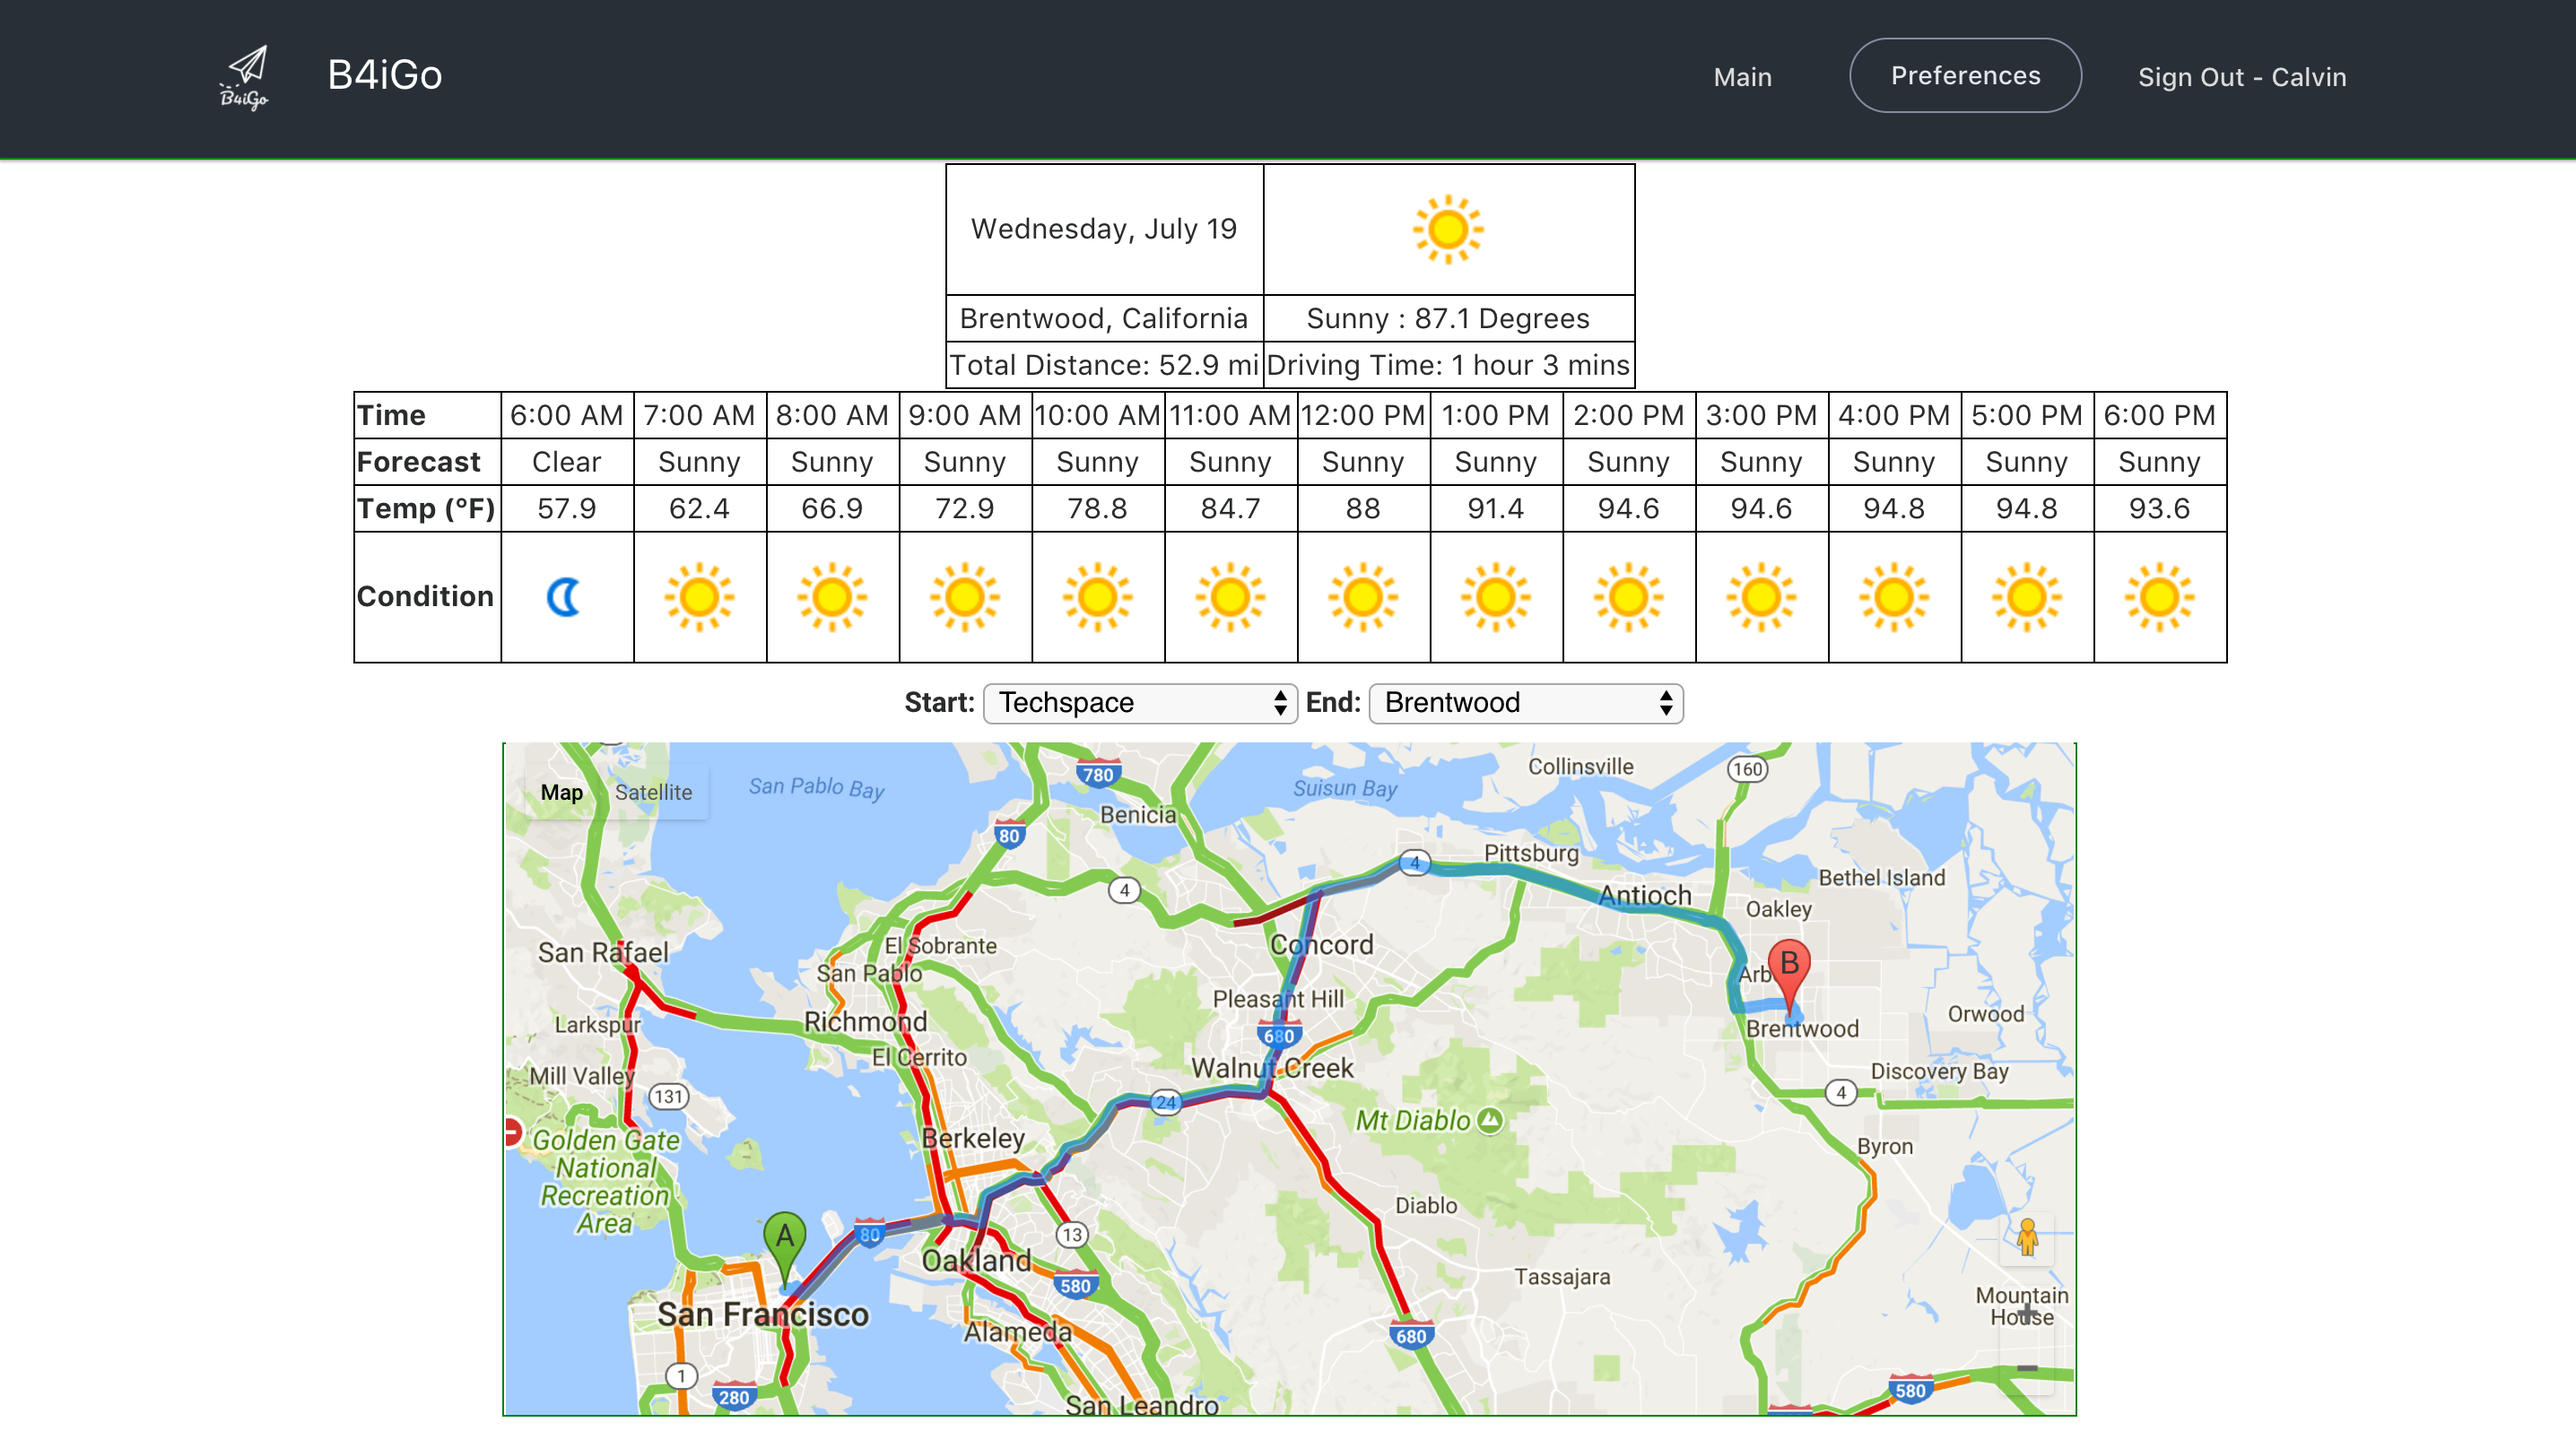
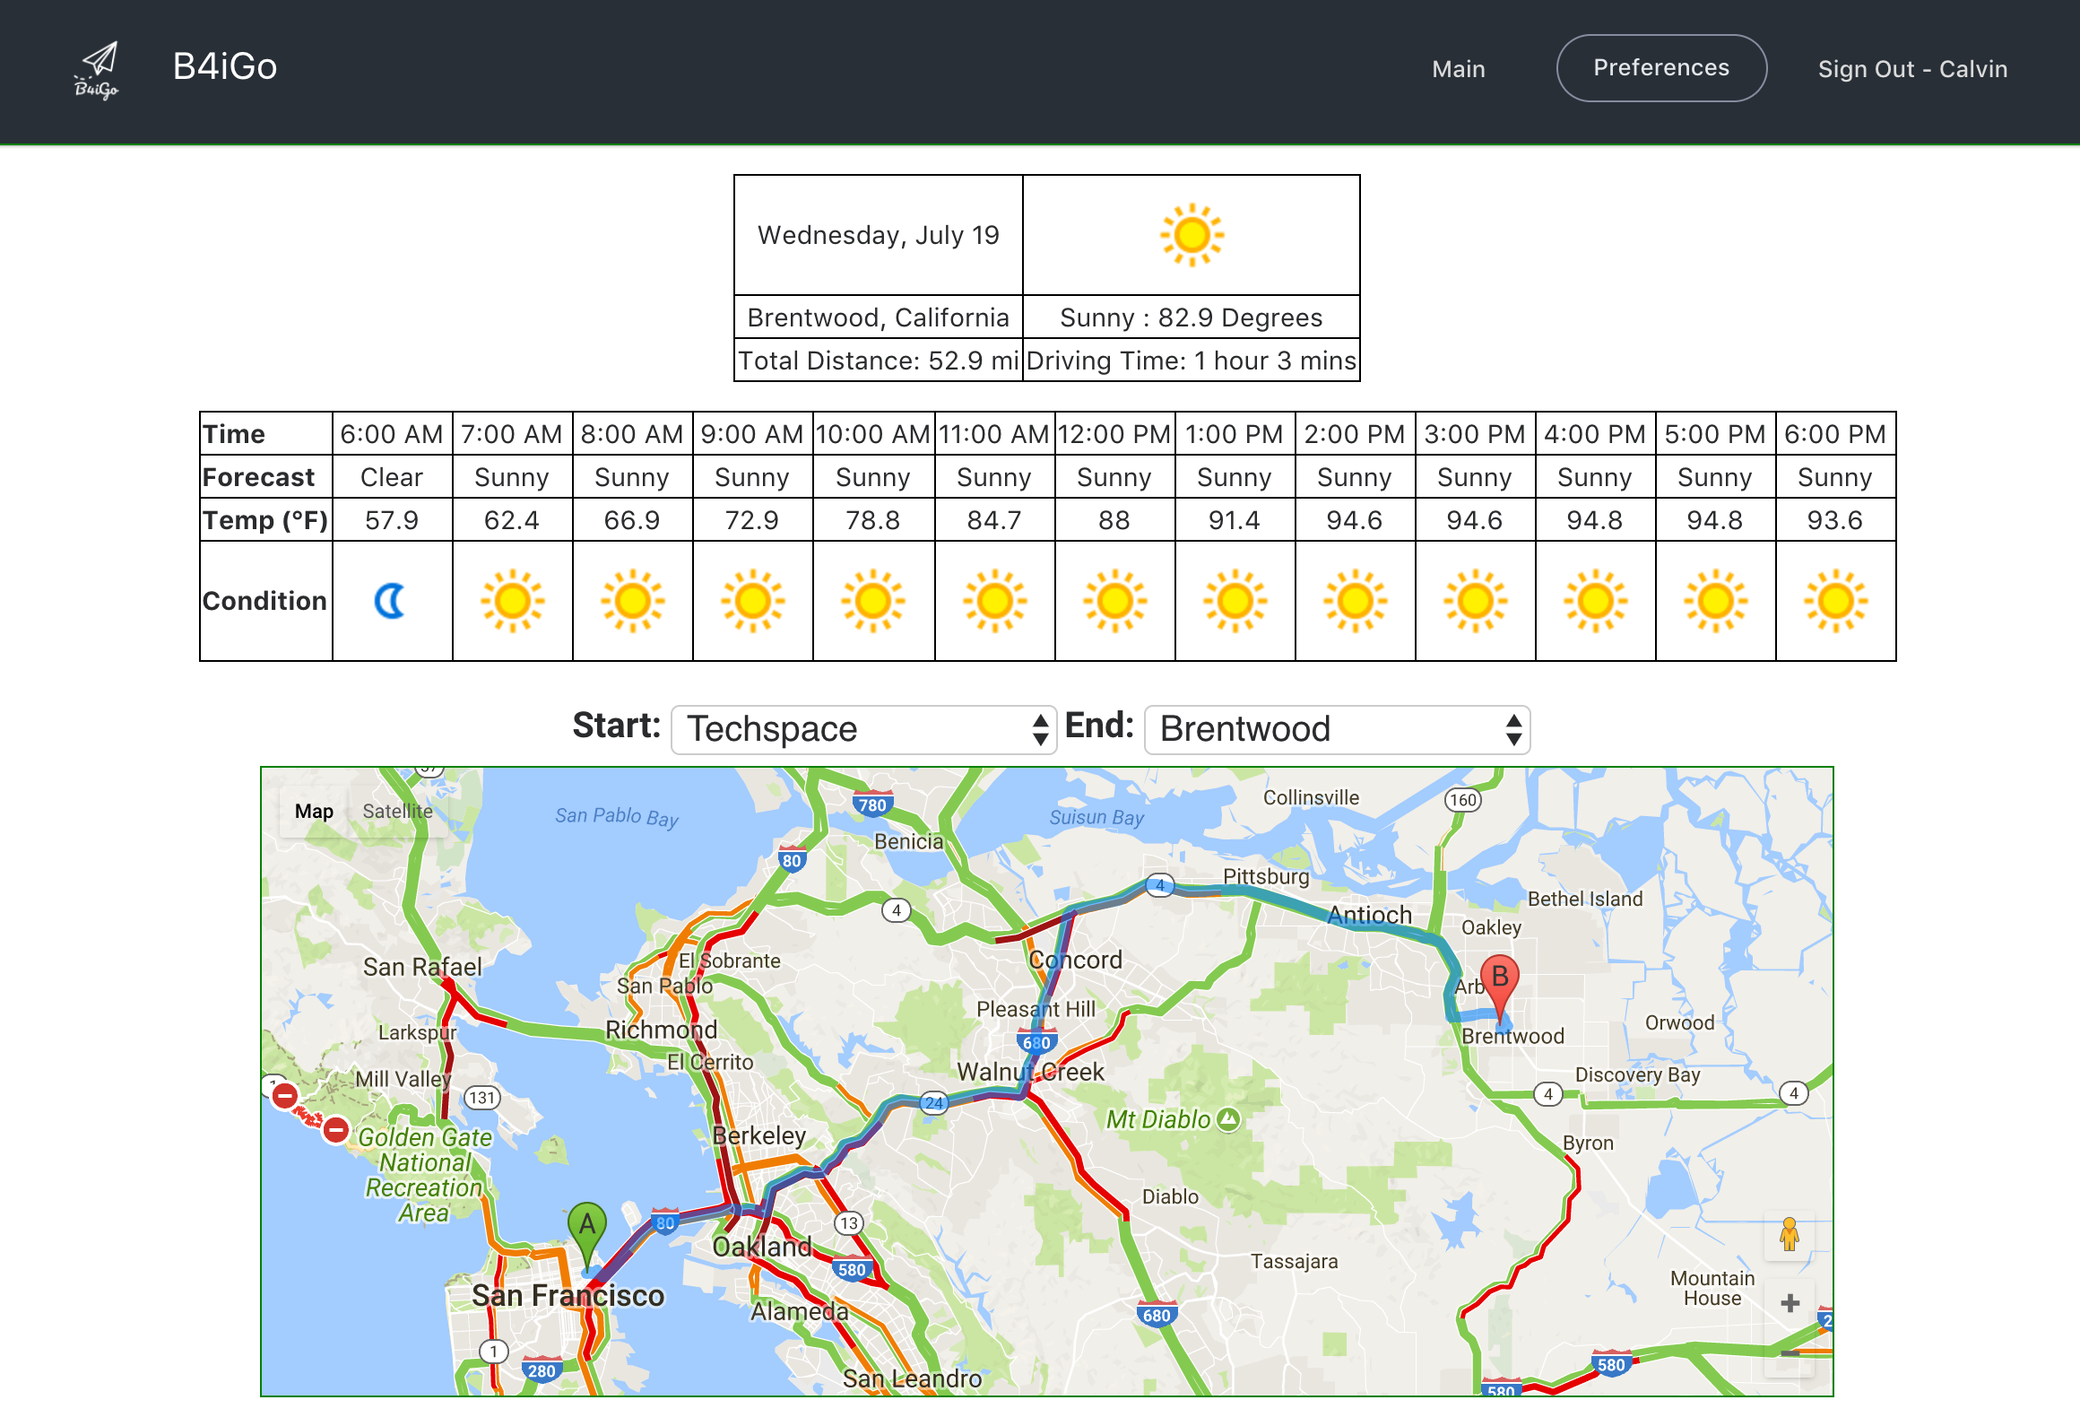
Adjusted further CSS/Sizings

Changed region(s): [[0.0, 0.0308, 1.0, 1.0], [0.031, 0.0308, 0.1862, 0.0616], [0.869, 0.5547, 0.9, 0.5855]]

diff --git a/app/assets/stylesheets/users.scss b/app/assets/stylesheets/users.scss
@@ -30,7 +30,7 @@
 
 #mapRenderInit {border: 1px solid green; width: 60%; height: 60%; position:fixed; text-align:center}
 
-#map {border: 1px solid green; width: 61%; height: 47%; margin:0px auto; display:inline-block}
+#map {border: 1px solid green; width: 61%; height: 44%; margin:0px auto; display:inline-block}
 
 // .adp-placemark {
 //   margin-top:0 !important;
@@ -74,6 +74,7 @@ html, body, #mapRenderInit {
     width: 100%;
     text-align: center;
     padding: 1px;
+    margin: 15px 0px;
 }
 
 #hourly {
@@ -87,6 +88,7 @@ html, body, #mapRenderInit {
 #table{
   overflow-x:auto;
   min-width: 180px;
+  margin-bottom: 15px;
 }
 
 table, th, td{

diff --git a/app/assets/stylesheets/application.css b/app/assets/stylesheets/application.css
@@ -13,3 +13,20 @@
  *= require_tree .
  *= require_self
  */
+
+
+#address-form{
+  margin-bottom: 20px;
+}
+
+.pt-20 {
+  padding-top: 20px;
+}
+
+.address-label {
+  font-size: 20px;
+}
+
+#index_spacer {
+  margin-top: 110px;
+}

diff --git a/public/scss/custom/pages/_index_app.scss b/public/scss/custom/pages/_index_app.scss
@@ -202,7 +202,7 @@
 }
 
 .index-app-devices {
-  margin-top: 220px;
+  margin-top: 110px;
   margin-bottom: 180px;
 
   @media(max-width: 767px) {
